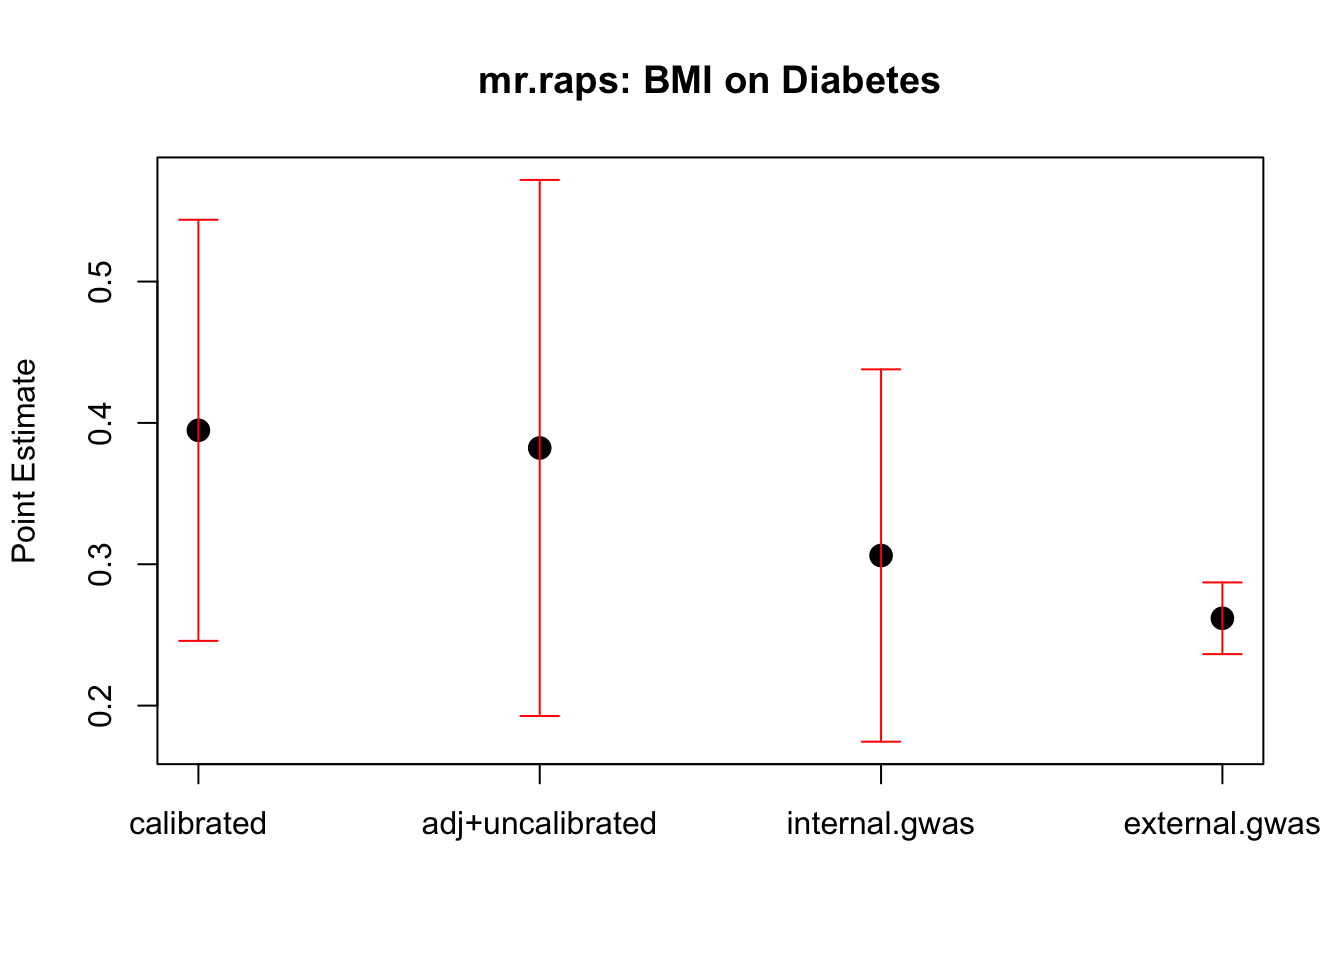
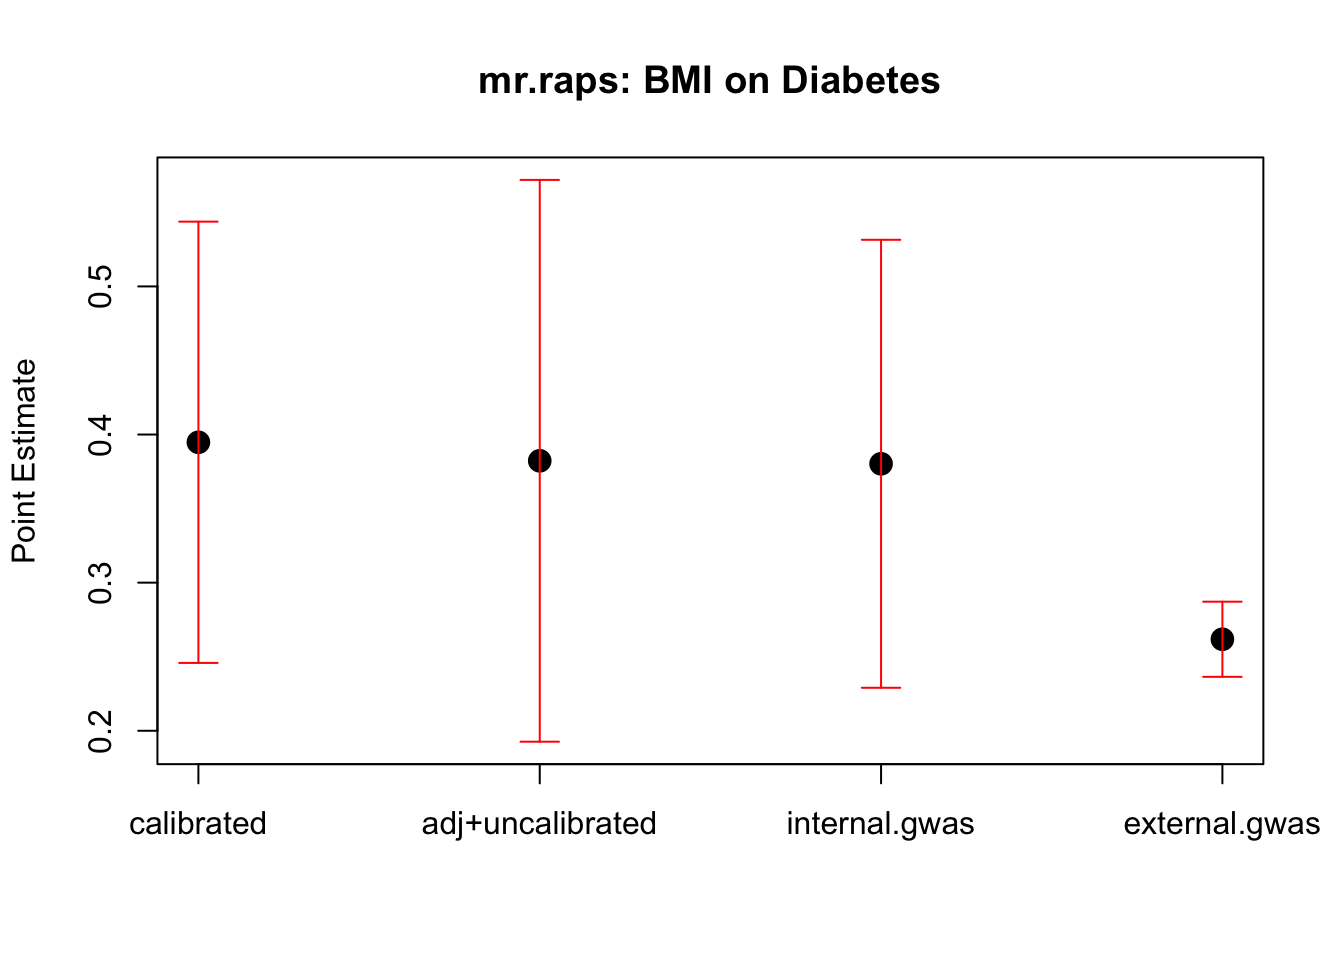
Build site.

diff --git a/docs/ukb_mr_sibling.html b/docs/ukb_mr_sibling.html
@@ -383,7 +383,7 @@ div.tocify {
 <div class="tab-content">
 <div id="summary" class="tab-pane fade in active">
 <p>
-<strong>Last updated:</strong> 2024-05-22
+<strong>Last updated:</strong> 2024-05-23
 </p>
 <p>
 <strong>Checks:</strong> <span class="glyphicon glyphicon-ok text-success" aria-hidden="true"></span> 7 <span class="glyphicon glyphicon-exclamation-sign text-danger" aria-hidden="true"></span> 0
@@ -474,16 +474,16 @@ This reproducible <a href="http://rmarkdown.rstudio.com">R Markdown</a> analysis
 <div class="panel panel-default">
 <div class="panel-heading">
 <p class="panel-title">
-<a data-toggle="collapse" data-parent="#workflowr-checks" href="#strongRepositoryversionstrongahrefhttpsgithubcomyunqiyang0215simulationcalibratedmrtreeb9e360bcd1fd78ea6f0986639b6910495026096dtargetblankb9e360ba"> <span class="glyphicon glyphicon-ok text-success" aria-hidden="true"></span> <strong>Repository version:</strong> <a href="https://github.com/yunqiyang0215/simulation-calibrated-mr/tree/b9e360bcd1fd78ea6f0986639b6910495026096d" target="_blank">b9e360b</a> </a>
+<a data-toggle="collapse" data-parent="#workflowr-checks" href="#strongRepositoryversionstrongahrefhttpsgithubcomyunqiyang0215simulationcalibratedmrtree70c49227ae53acfc13422dd01d55aecb59a4599ftargetblank70c4922a"> <span class="glyphicon glyphicon-ok text-success" aria-hidden="true"></span> <strong>Repository version:</strong> <a href="https://github.com/yunqiyang0215/simulation-calibrated-mr/tree/70c49227ae53acfc13422dd01d55aecb59a4599f" target="_blank">70c4922</a> </a>
 </p>
 </div>
[2 lines of base64/hex data omitted]
 <div class="panel-body">
 <p>
 Great! You are using Git for version control. Tracking code development and connecting the code version to the results is critical for reproducibility.
 </p>
 <p>
-The results in this page were generated with repository version <a href="https://github.com/yunqiyang0215/simulation-calibrated-mr/tree/b9e360bcd1fd78ea6f0986639b6910495026096d" target="_blank">b9e360b</a>. See the <em>Past versions</em> tab to see a history of the changes made to the R Markdown and HTML files.
+The results in this page were generated with repository version <a href="https://github.com/yunqiyang0215/simulation-calibrated-mr/tree/70c49227ae53acfc13422dd01d55aecb59a4599f" target="_blank">70c4922</a>. See the <em>Past versions</em> tab to see a history of the changes made to the R Markdown and HTML files.
 </p>
 <p>
 Note that you need to be careful to ensure that all relevant files for the analysis have been committed to Git prior to generating the results (you can use <code>wflow_publish</code> or <code>wflow_git_commit</code>). workflowr only checks the R Markdown file, but you know if there are other scripts or data files that it depends on. Below is the status of the Git repository when the results were generated:
@@ -531,6 +531,40 @@ Message
 </tr>
 </thead>
 <tbody>
+<tr>
+<td>
+Rmd
+</td>
+<td>
+<a href="https://github.com/yunqiyang0215/simulation-calibrated-mr/blob/70c49227ae53acfc13422dd01d55aecb59a4599f/analysis/ukb_mr_sibling.Rmd" target="_blank">70c4922</a>
+</td>
+<td>
+yunqiyang0215
+</td>
+<td>
+2024-05-23
+</td>
+<td>
+wflow_publish("analysis/ukb_mr_sibling.Rmd")
+</td>
+</tr>
+<tr>
+<td>
+html
+</td>
+<td>
+<a href="https://rawcdn.githack.com/yunqiyang0215/simulation-calibrated-mr/60c3eb0ce4033b3b5f8ffbdff5f9d15d282b3d40/docs/ukb_mr_sibling.html" target="_blank">60c3eb0</a>
+</td>
+<td>
+yunqiyang0215
+</td>
+<td>
+2024-05-22
+</td>
+<td>
+Build site.
+</td>
+</tr>
 <tr>
 <td>
 Rmd
@@ -789,8 +823,8 @@ mr = mr_ivw(MRInput)
 res.mr[, 4] = c(mr@Estimate, mr@StdError)</code></pre>
 <pre class="r"><code>res.mr</code></pre>
 <pre><code>          calibrated adj+uncalibrated internal.gwas external.gwas
-point.est 0.25377357       0.24469011    0.22701409    0.22720776
-std       0.07634288       0.07942329    0.05976809    0.04122251</code></pre>
+point.est 0.25377357       0.24469011    0.26755029    0.22720776
+std       0.07634288       0.07942329    0.06510503    0.04122251</code></pre>
 <pre class="r"><code>labels &lt;- c(&#39;calibrated&#39;, &#39;adj+uncalibrated&#39;, &#39;internal.gwas&#39;, &#39;external.gwas&#39;)
 point_est &lt;- res.mr[1, ]
 error_bars &lt;- 1.96 * res.mr[2, ]
@@ -892,8 +926,8 @@ stderr = mr$beta.se
 res.mr[, 4] = c(point_est, stderr)</code></pre>
 <pre class="r"><code>res.mr</code></pre>
 <pre><code>          calibrated adj+uncalibrated internal.gwas external.gwas
-point.est 0.39477427       0.38226988    0.30618120     0.2617863
-std       0.07600144       0.09675482    0.06719649     0.0129411</code></pre>
+point.est 0.39477427       0.38226988    0.38025604     0.2617863
+std       0.07600144       0.09675482    0.07715442     0.0129411</code></pre>
 <pre class="r"><code>labels &lt;- c(&#39;calibrated&#39;, &#39;adj+uncalibrated&#39;, &#39;internal.gwas&#39;, &#39;external.gwas&#39;)
 point_est &lt;- res.mr[1, ]
 error_bars &lt;- 1.96 * res.mr[2, ]
@@ -985,6 +1019,8 @@ sumstat[, c(3:8)] = apply(sumstat[, c(3:8)], 2, as.numeric)
 dat2 = merge(sumstat, ext, by.x = &quot;variant&quot;, by.y = &quot;ID&quot;, all = FALSE)
 # flip sign of effect if the allele tested is different
 dat2$BETA = ifelse(dat2$allele.test == dat2$A1, dat2$BETA, -dat2$BETA)</code></pre>
+<pre class="r"><code>plot(dat2$BETA, dat2$int)</code></pre>
+<p><img src="figure/ukb_mr_sibling.Rmd/unnamed-chunk-14-1.png" width="672" style="display: block; margin: auto;" /></p>
 <pre class="r"><code>indx = which(pval.ext &lt; 1e-8)
 dat1 = dat1[indx, ]
 dat2 = dat2[indx, ]
@@ -1036,8 +1072,8 @@ mr = mr_ivw(MRInput)
 res.mr[, 4] = c(mr@Estimate, mr@StdError)</code></pre>
 <pre class="r"><code>res.mr</code></pre>
 <pre><code>           calibrated adj+uncalibrated internal.gwas external.gwas
-point.est -0.04762544       0.01012382     0.2127745   -0.12257214
-std        0.06862821       0.07628908     0.0667886    0.03002803</code></pre>
+point.est -0.04762544       0.01012382    0.12806389   -0.12257214
+std        0.06862821       0.07628908    0.07623339    0.03002803</code></pre>
 <pre class="r"><code>labels &lt;- c(&#39;calibrated&#39;, &#39;adj+uncalibrated&#39;, &#39;internal.gwas&#39;, &#39;external.gwas&#39;)
 point_est &lt;- res.mr[1, ]
 error_bars &lt;- 1.96 * res.mr[2, ]
@@ -1047,13 +1083,13 @@ plot(1:4, point_est, ylim=c(min(point_est - error_bars), max(point_est + error_b
      xaxt=&#39;n&#39;, pch=19, xlab=&#39;&#39;, ylab=&#39;Point Estimate&#39;, main=&#39;IVW: BMI on education yrs&#39;, cex=1.5)
 arrows(1:4, point_est - error_bars, 1:4, point_est + error_bars, angle=90, code=3, length=0.1, col=&#39;red&#39;)
 axis(1, at=1:4, labels=labels)</code></pre>
-<p><img src="figure/ukb_mr_sibling.Rmd/unnamed-chunk-17-1.png" width="672" style="display: block; margin: auto;" /></p>
+<p><img src="figure/ukb_mr_sibling.Rmd/unnamed-chunk-18-1.png" width="672" style="display: block; margin: auto;" /></p>
 <p>
-<button type="button" class="btn btn-default btn-xs btn-workflowr btn-workflowr-fig" data-toggle="collapse" data-target="#fig-unnamed-chunk-17-1">
-Past versions of unnamed-chunk-17-1.png
+<button type="button" class="btn btn-default btn-xs btn-workflowr btn-workflowr-fig" data-toggle="collapse" data-target="#fig-unnamed-chunk-18-1">
+Past versions of unnamed-chunk-18-1.png
 </button>
 </p>
-<div id="fig-unnamed-chunk-17-1" class="collapse">
+<div id="fig-unnamed-chunk-18-1" class="collapse">
 <div class="table-responsive">
 <table class="table table-condensed table-hover">
 <thead>
@@ -1072,35 +1108,24 @@ Date
 <tbody>
 <tr>
 <td>
-<a href="https://github.com/yunqiyang0215/simulation-calibrated-mr/blob/ccb152507c46002da380283f4b24a87a25f02a09/docs/figure/ukb_mr_sibling.Rmd/unnamed-chunk-17-1.png" target="_blank">ccb1525</a>
-</td>
-<td>
-yunqiyang0215
-</td>
-<td>
-2024-05-22
-</td>
-</tr>
-<tr>
-<td>
-<a href="https://github.com/yunqiyang0215/simulation-calibrated-mr/blob/ba88f5ec76b4bb1ca7bb61be891fe919a882857e/docs/figure/ukb_mr_sibling.Rmd/unnamed-chunk-17-1.png" target="_blank">ba88f5e</a>
-</td>
-<td>
-yunqiyang0215
-</td>
-<td>
-2024-05-20
-</td>
-</tr>
-<tr>
-<td>
-<a href="https://github.com/yunqiyang0215/simulation-calibrated-mr/blob/508300b45264b29758cb501c74fc5413b1c97f97/docs/figure/ukb_mr_sibling.Rmd/unnamed-chunk-17-1.png" target="_blank">508300b</a>
+<a href="https://github.com/yunqiyang0215/simulation-calibrated-mr/blob/508300b45264b29758cb501c74fc5413b1c97f97/docs/figure/ukb_mr_sibling.Rmd/unnamed-chunk-18-1.png" target="_blank">508300b</a>
 </td>
 <td>
 yunqi yang
 </td>
 <td>
 2024-05-17
+</td>
+</tr>
+<tr>
+<td>
+<a href="https://github.com/yunqiyang0215/simulation-calibrated-mr/blob/7a87cfe4dff76b633b3a77ac9eb8531700d63af8/docs/figure/ukb_mr_sibling.Rmd/unnamed-chunk-18-1.png" target="_blank">7a87cfe</a>
+</td>
+<td>
+yunqi yang
+</td>
+<td>
+2024-05-16
 </td>
 </tr>
 </tbody>
@@ -1139,8 +1164,8 @@ stderr = mr$beta.se
 res.mr[, 4] = c(point_est, stderr)</code></pre>
 <pre class="r"><code>res.mr</code></pre>
 <pre><code>           calibrated adj+uncalibrated internal.gwas external.gwas
-point.est -0.06156528       0.01318673    0.26372914   -0.13014622
-std        0.09080663       0.11528355    0.08765796    0.01470978</code></pre>
+point.est -0.06156528       0.01318673    0.17593698   -0.13014622
+std        0.09080663       0.11528355    0.09532537    0.01470978</code></pre>
 <pre class="r"><code>labels &lt;- c(&#39;calibrated&#39;, &#39;adj+uncalibrated&#39;, &#39;internal.gwas&#39;, &#39;external.gwas&#39;)
 point_est &lt;- res.mr[1, ]
 error_bars &lt;- 1.96 * res.mr[2, ]
@@ -1150,66 +1175,7 @@ plot(1:4, point_est, ylim=c(min(point_est - error_bars), max(point_est + error_b
      xaxt=&#39;n&#39;, pch=19, xlab=&#39;&#39;, ylab=&#39;Point Estimate&#39;, main=&#39;mr.raps: BMI on education years&#39;, cex=1.5)
 arrows(1:4, point_est - error_bars, 1:4, point_est + error_bars, angle=90, code=3, length=0.1, col=&#39;red&#39;)
 axis(1, at=1:4, labels=labels)</code></pre>
-<p><img src="figure/ukb_mr_sibling.Rmd/unnamed-chunk-20-1.png" width="672" style="display: block; margin: auto;" /></p>
-<p>
-<button type="button" class="btn btn-default btn-xs btn-workflowr btn-workflowr-fig" data-toggle="collapse" data-target="#fig-unnamed-chunk-20-1">
-Past versions of unnamed-chunk-20-1.png
-</button>
-</p>
-<div id="fig-unnamed-chunk-20-1" class="collapse">
-<div class="table-responsive">
-<table class="table table-condensed table-hover">
-<thead>
-<tr>
-<th>
-Version
-</th>
-<th>
-Author
-</th>
-<th>
-Date
-</th>
-</tr>
-</thead>
-<tbody>
-<tr>
-<td>
-<a href="https://github.com/yunqiyang0215/simulation-calibrated-mr/blob/ccb152507c46002da380283f4b24a87a25f02a09/docs/figure/ukb_mr_sibling.Rmd/unnamed-chunk-20-1.png" target="_blank">ccb1525</a>
-</td>
-<td>
-yunqiyang0215
-</td>
-<td>
-2024-05-22
-</td>
-</tr>
-<tr>
-<td>
-<a href="https://github.com/yunqiyang0215/simulation-calibrated-mr/blob/ba88f5ec76b4bb1ca7bb61be891fe919a882857e/docs/figure/ukb_mr_sibling.Rmd/unnamed-chunk-20-1.png" target="_blank">ba88f5e</a>
-</td>
-<td>
-yunqiyang0215
-</td>
-<td>
-2024-05-20
-</td>
-</tr>
-<tr>
-<td>
-<a href="https://github.com/yunqiyang0215/simulation-calibrated-mr/blob/508300b45264b29758cb501c74fc5413b1c97f97/docs/figure/ukb_mr_sibling.Rmd/unnamed-chunk-20-1.png" target="_blank">508300b</a>
-</td>
-<td>
-yunqi yang
-</td>
-<td>
-2024-05-17
-</td>
-</tr>
-</tbody>
-</table>
-</div>
-</div>
+<p><img src="figure/ukb_mr_sibling.Rmd/unnamed-chunk-21-1.png" width="672" style="display: block; margin: auto;" /></p>
 </div>
 </div>
 <div id="bmi-on-education-yrs-1" class="section level3">
@@ -1268,8 +1234,8 @@ mr = mr_ivw(MRInput)
 res.mr[, 2] = c(mr@Estimate, mr@StdError)</code></pre>
 <pre class="r"><code>res.mr</code></pre>
 <pre><code>          internal.gwas external.gwas
-point.est    0.16545870   -0.12257214
-std          0.09173151    0.03002803</code></pre>
+point.est   -0.19836876   -0.12257214
+std          0.08746645    0.03002803</code></pre>
 <pre class="r"><code>res.mr = matrix(NA, ncol = 2, nrow = 2)
 colnames(res.mr) = c(&quot;internal.gwas&quot;, &quot;external.gwas&quot;)
 rownames(res.mr) = c(&quot;point.est&quot;, &quot;std&quot;)
@@ -1287,8 +1253,8 @@ stderr = mr$beta.se
 res.mr[, 2] = c(point_est, stderr)</code></pre>
 <pre class="r"><code>res.mr</code></pre>
 <pre><code>          internal.gwas external.gwas
-point.est     0.3209895   -0.13014622
-std           0.1245920    0.01470978</code></pre>
+point.est    -0.3520809   -0.13014622
+std           0.1304560    0.01470978</code></pre>
 </div>
 <div id="bmi-on-education-yrs-2" class="section level3">
 <h3>4. BMI on education yrs</h3>
@@ -1320,6 +1286,16 @@ sum(dat1$variant != dat2$variant)</code></pre>
 <pre><code>[1] 0</code></pre>
 <pre class="r"><code>sum(dat1$allele.test != dat2$allele.test)</code></pre>
 <pre><code>[1] 0</code></pre>
+<pre class="r"><code>plot(dat1$BETA, dat2$BETA)</code></pre>
+<p><img src="figure/ukb_mr_sibling.Rmd/unnamed-chunk-33-1.png" width="672" style="display: block; margin: auto;" /></p>
+<pre class="r"><code>plot(dat1$int, dat2$int)</code></pre>
+<p><img src="figure/ukb_mr_sibling.Rmd/unnamed-chunk-33-2.png" width="672" style="display: block; margin: auto;" /></p>
+<pre class="r"><code>plot(dat1$BETA, dat2$int)</code></pre>
+<p><img src="figure/ukb_mr_sibling.Rmd/unnamed-chunk-33-3.png" width="672" style="display: block; margin: auto;" /></p>
+<pre class="r"><code>plot(dat1$int, dat2$BETA)</code></pre>
+<p><img src="figure/ukb_mr_sibling.Rmd/unnamed-chunk-33-4.png" width="672" style="display: block; margin: auto;" /></p>
+<pre class="r"><code>plot(dat2$BETA, dat2$int)</code></pre>
+<p><img src="figure/ukb_mr_sibling.Rmd/unnamed-chunk-33-5.png" width="672" style="display: block; margin: auto;" /></p>
 <pre class="r"><code># internal gwas
 MRInput &lt;- mr_input(bx = dat1$int,
                     bxse = sqrt(dat1$int.var),
@@ -1327,12 +1303,12 @@ MRInput &lt;- mr_input(bx = dat1$int,
                     byse = dat2$int.std)
 mr = mr_ivw(MRInput)
 print(c(mr@Estimate, mr@StdError))</code></pre>
-<pre><code>[1] 0.1270245 0.1057679</code></pre>
+<pre><code>[1] -0.1835324  0.1096677</code></pre>
 <pre class="r"><code>mr = mr.raps.mle(dat1$int, dat2$int, sqrt(dat1$int.var), dat2$int.std)
 point_est = mr$beta.hat
 stderr = mr$beta.se
 print(c(point_est, stderr))</code></pre>
-<pre><code>[1] 0.1760042 0.1116338</code></pre>
+<pre><code>[1] -0.2617528  0.1287415</code></pre>
 <br>
 <p>
 <button type="button" class="btn btn-default btn-workflowr btn-workflowr-sessioninfo" data-toggle="collapse" data-target="#workflowr-sessioninfo" style="display: block;">
